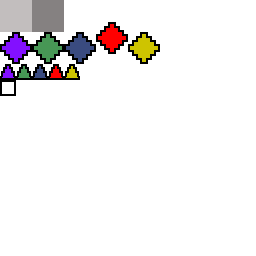
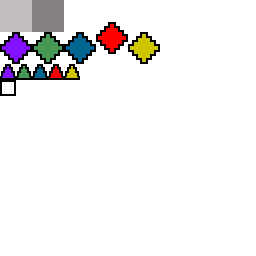
機能変更：ステーション表示を1つ、リンク解除。 機能変更に合わせてステージ修正

Changed region(s): [[0.25, 0.125, 0.375, 0.25], [0.125, 0.25, 0.1875, 0.3125]]

diff --git a/Solution/StageEditor/Editor.cpp b/Solution/StageEditor/Editor.cpp
@@ -26,18 +26,18 @@ void Editor::initialize( ) {
 	drawer->loadGraph( GRAPH_TIMER_NUM, "UI/timenumber.png" );
 	drawer->loadGraph( GRAPH_SELECT_MENU, "UI/UI_retry_select.png" );
 	Matrix station_size = Matrix::makeTransformScaling( Vector( WORLD_SCALE, WORLD_SCALE, WORLD_SCALE ) ); 
-	drawer->loadMDLModel( MDL_STATION_0, "Model/Station/station.mdl", "Model/Station/purple.jpg", station_size );
-	drawer->loadMDLModel( MDL_STATION_1, "Model/Station/station.mdl", "Model/Station/green.jpg", station_size );
-	drawer->loadMDLModel( MDL_STATION_2, "Model/Station/station.mdl", "Model/Station/blue.jpg", station_size );
-	drawer->loadMDLModel( MDL_STATION_3, "Model/Station/station.mdl", "Model/Station/red.jpg", station_size );
-	drawer->loadMDLModel( MDL_STATION_4, "Model/Station/station.mdl", "Model/Station/yellow.jpg", station_size );
+	drawer->loadMDLModel( MDL_STATION, "Model/Station/station.mdl", "Model/Station/purple.jpg", station_size );
+	//drawer->loadMDLModel( MDL_STATION_1, "Model/Station/station.mdl", "Model/Station/green.jpg", station_size );
+	//drawer->loadMDLModel( MDL_STATION_2, "Model/Station/station.mdl", "Model/Station/blue.jpg", station_size );
+	//drawer->loadMDLModel( MDL_STATION_3, "Model/Station/station.mdl", "Model/Station/red.jpg", station_size );
+	//drawer->loadMDLModel( MDL_STATION_4, "Model/Station/station.mdl", "Model/Station/yellow.jpg", station_size );
 
 	Matrix crystal_size = Matrix::makeTransformScaling( Vector( WORLD_SCALE / 2, WORLD_SCALE / 2, WORLD_SCALE / 2 ) ); 
-	drawer->loadMDLModel( MDL_CRYSTAL_0, "Model/Crystal/crystal.mdl", "Model/Crystal/purple.jpg", crystal_size );
-	drawer->loadMDLModel( MDL_CRYSTAL_1, "Model/Crystal/crystal.mdl", "Model/Crystal/green.jpg", crystal_size );
-	drawer->loadMDLModel( MDL_CRYSTAL_2, "Model/Crystal/crystal.mdl", "Model/Crystal/blue.jpg", crystal_size );
-	drawer->loadMDLModel( MDL_CRYSTAL_3, "Model/Crystal/crystal.mdl", "Model/Crystal/red.jpg", crystal_size );
-	drawer->loadMDLModel( MDL_CRYSTAL_4, "Model/Crystal/crystal.mdl", "Model/Crystal/yellow.jpg", crystal_size );
+	drawer->loadMDLModel( MDL_CRYSTAL, "Model/Crystal/crystal.mdl", "Model/Crystal/purple.jpg", crystal_size );
+	//drawer->loadMDLModel( MDL_CRYSTAL_1, "Model/Crystal/crystal.mdl", "Model/Crystal/green.jpg", crystal_size );
+	//drawer->loadMDLModel( MDL_CRYSTAL_2, "Model/Crystal/crystal.mdl", "Model/Crystal/blue.jpg", crystal_size );
+	//drawer->loadMDLModel( MDL_CRYSTAL_3, "Model/Crystal/crystal.mdl", "Model/Crystal/red.jpg", crystal_size );
+	//drawer->loadMDLModel( MDL_CRYSTAL_4, "Model/Crystal/crystal.mdl", "Model/Crystal/yellow.jpg", crystal_size );
 	
 	Matrix earth_size = Matrix::makeTransformScaling( Vector( WORLD_SCALE / STAGE_MODEL_SIZE * STAGE_WIDTH_NUM, WORLD_SCALE / STAGE_MODEL_SIZE * STAGE_HEIGHT_NUM, WORLD_SCALE / STAGE_MODEL_SIZE ) );
 	drawer->loadMDLModel( MDL_EARTH, "Model/Stage/earth.mdl", "Model/Stage/earth.jpg", earth_size );

diff --git a/Solution/Common/Stage.cpp b/Solution/Common/Stage.cpp
@@ -70,17 +70,6 @@ void Stage::loadWall( ) {
 		Vector( 0, 0 ),
 		Vector( -WORLD_SCALE / 8, -WORLD_SCALE / 2 )
 	};
-	Vector copy_pos[ 9 ] = {
-		Vector( 0, 0, 0 ),
-		Vector( STAGE_WIDTH_NUM * WORLD_SCALE, 0, 0 ),
-		Vector( STAGE_WIDTH_NUM * WORLD_SCALE, STAGE_HEIGHT_NUM * WORLD_SCALE, 0 ),
-		Vector( STAGE_WIDTH_NUM * WORLD_SCALE, -STAGE_HEIGHT_NUM * WORLD_SCALE, 0 ),
-		Vector( -STAGE_WIDTH_NUM * WORLD_SCALE, 0, 0 ),
-		Vector( -STAGE_WIDTH_NUM * WORLD_SCALE, STAGE_HEIGHT_NUM * WORLD_SCALE, 0 ),
-		Vector( -STAGE_WIDTH_NUM * WORLD_SCALE, -STAGE_HEIGHT_NUM * WORLD_SCALE, 0 ),
-		Vector( 0,  STAGE_HEIGHT_NUM * WORLD_SCALE, 0 ),
-		Vector( 0,  -STAGE_HEIGHT_NUM * WORLD_SCALE, 0 ),
-	};
 
 	for ( int i = 0; i < 16; i++ ) {
 		int tmp = 1;
@@ -104,20 +93,20 @@ void Stage::loadWall( ) {
 		}
 		unsigned char flag = 0;
 		for ( int j = 0; j < 4; j++ ) {
-			int tmp_x = x * 2 + j % 2;
-			int tmp_y = y * 2 + j / 2;
-			int map_idx = tmp_x % ( STAGE_WIDTH_NUM * 2 ) + tmp_y * STAGE_WIDTH_NUM * 2;
-			if ( x + OFFSET_X[ j ] < 0 ||
-				 x + OFFSET_X[ j ] >= STAGE_WIDTH_NUM ) {
-				continue;
-			}
-			if ( y + OFFSET_Y[ j ] < 0 ||
-				 y + OFFSET_Y[ j ] >= STAGE_HEIGHT_NUM ) {
-				continue;
-			}
-
 			int idx0 = i + OFFSET_X[ j ];
 			int idx1 = i + OFFSET_Y[ j ] * STAGE_WIDTH_NUM;
+			if ( x + OFFSET_X[ j ] < 0 ) {
+				idx0 += STAGE_WIDTH_NUM;
+			}
+			if ( x + OFFSET_X[ j ] >= STAGE_WIDTH_NUM ) {
+				idx0 -= STAGE_WIDTH_NUM;
+			}
+			if ( y + OFFSET_Y[ j ] < 0 ) {
+				idx1 += STAGE_WIDTH_NUM * STAGE_HEIGHT_NUM;
+			}
+			if ( y + OFFSET_Y[ j ] >= STAGE_HEIGHT_NUM ) {
+				idx1 -= STAGE_WIDTH_NUM * STAGE_HEIGHT_NUM;
+			}
 			if ( type == 1 ) {
 				if ( _data.wall[ idx0 ] == 0 && _data.wall[ idx1 ] == 0 ) {
 					flag |= 1 << j;

diff --git a/Solution/App/Viewer.cpp b/Solution/App/Viewer.cpp
@@ -1,11 +1,12 @@
 #include "Viewer.h"
 
 static const int VIEW_RANGE = 8;
-static const Vector OFFSET[ 4 ] = {
+static const Vector OFFSET[ 5 ] = {
 	Vector( -STAGE_WIDTH_NUM * WORLD_SCALE, 0, 0 ),
 	Vector( STAGE_WIDTH_NUM * WORLD_SCALE, 0, 0 ),
 	Vector( 0, -STAGE_HEIGHT_NUM * WORLD_SCALE, 0 ),
 	Vector( 0, STAGE_HEIGHT_NUM * WORLD_SCALE, 0 ),
+	Vector( )
 };
 
 Viewer::Viewer( ) {
@@ -15,7 +16,7 @@ Viewer::Viewer( ) {
 Viewer::~Viewer( ) {
 }
 
-void Viewer::drawModelMDL( Drawer::ModelMDL mdl ) {
+void Viewer::drawModelMDL( Drawer::ModelMDL mdl ) const {
 	DrawerPtr drawer = Drawer::getTask( );
 	drawer->setModelMDL( mdl );
 	char flag = getInViewFlag( mdl.pos );
@@ -32,7 +33,19 @@ void Viewer::drawModelMDL( Drawer::ModelMDL mdl ) {
 	}
 }
 
-char Viewer::getInViewFlag( Vector pos ) {
+void Viewer::drawModelMDLTransfer( Drawer::ModelMDL mdl ) const {
+	DrawerPtr drawer = Drawer::getTask( );
+	drawer->setModelMDL( mdl );
+	const int OFF_X[ 8 ] = { 4, 4, 0, 0, 0, 1, 1, 1 };
+	const int OFF_Y[ 8 ] = { 2, 3, 2, 4, 3, 2, 4, 3 };
+	for ( int i = 0; i < 8; i++ ) {
+		Drawer::ModelMDL model = mdl;
+		model.pos += OFFSET[ OFF_X[ i ] ] + OFFSET[ OFF_Y[ i ] ];
+		drawer->setModelMDL( model );
+	}
+}
+
+char Viewer::getInViewFlag( Vector pos ) const {
 	char flag = 0;
 	if ( pos.x > VIEW_RANGE * WORLD_SCALE ) {
 		flag |= 1;

diff --git a/Solution/App/AppStage.h b/Solution/App/AppStage.h
@@ -15,8 +15,9 @@ public:
 	Vector adjustCollisionToWall( Vector pos, Vector vec, const double radius );
 	Vector adjustCollisionToCrystal( Vector pos, Vector vec, const double radius );
 	CrystalPtr getHittingCrystal( Vector pos0, Vector pos1 ) const;
-	bool isOnStation( Vector pos, int type );
+	bool isOnStation( Vector pos );
 	int getStationNum( ) const;
+	int getStationCount( ) const;
 	std::list< CrystalPtr > getCrystalList( ) const;
 private:
 	void updateCrystal( );
@@ -27,9 +28,11 @@ private:
 	void drawCollisionLine( ) const;
 	void loadCrystal( );
 	void loadMapData( );
+	void loadPhase( );
 	void load( int stage_num );
 private:
 	std::list< CrystalPtr > _crystals;
 	std::array< char, STAGE_WIDTH_NUM * 2 * STAGE_HEIGHT_NUM * 2 > _map_data;
+	int _station_count;
 };
 

diff --git a/Solution/App/Crystal.cpp b/Solution/App/Crystal.cpp
@@ -29,8 +29,9 @@ void Crystal::draw( ) const {
 
 void Crystal::update( AppStagePtr stage ) {
 	_drop_down = false;
-	if ( stage->isOnStation( _pos, (int)( _type - MDL_CRYSTAL_0 ) + 1 ) ) {
+	if ( stage->isOnStation( _pos ) ) {
 		_finished = true;
+		return;
 	}
 
 	Vector adjust = stage->adjustCollisionToWall( _pos, _vec, CRYSTAL_RADIUS );
@@ -113,8 +114,4 @@ void Crystal::setVec( Vector vec ) {
 
 bool Crystal::isDropDown( ) const {
 	return _drop_down;
-}
-
-MDL Crystal::getType( ) const {
-	return _type;
 }

diff --git a/Solution/Common/define.h b/Solution/Common/define.h
@@ -13,17 +13,13 @@ enum MDL {
 	MDL_EARTH,
 	MDL_CURSOR,
 
-	MDL_CRYSTAL_0,
-	MDL_CRYSTAL_1,
-	MDL_CRYSTAL_2,
-	MDL_CRYSTAL_3,
-	MDL_CRYSTAL_4,
+	MDL_CRYSTAL,
+	//MDL_CRYSTAL_1,
+	//MDL_CRYSTAL_2,
+	//MDL_CRYSTAL_3,
+	//MDL_CRYSTAL_4,
 
-	MDL_STATION_0,
-	MDL_STATION_1,
-	MDL_STATION_2,
-	MDL_STATION_3,
-	MDL_STATION_4,
+	MDL_STATION,
 
 	MDL_WALL_0_0,
 	MDL_WALL_0_1,

diff --git a/Solution/App/Viewer.h b/Solution/App/Viewer.h
@@ -9,8 +9,9 @@ public:
 	Viewer( );
 	virtual ~Viewer( );
 public:
-	void drawModelMDL( Drawer::ModelMDL mdl );
+	void drawModelMDL( Drawer::ModelMDL mdl ) const;
+	void drawModelMDLTransfer( Drawer::ModelMDL mdl ) const;
 private:
-	char getInViewFlag( Vector pos );
+	char getInViewFlag( Vector pos ) const;
 };
 

diff --git a/Solution/Common/Stage.h b/Solution/Common/Stage.h
@@ -35,7 +35,7 @@ protected:
 	void load( int stage_num );
 	virtual void drawCrystal( ) const;
 	void loadWall( );
-	void loadPhase( );
+	virtual void loadPhase( );
 	virtual void loadCrystal( );
 	std::vector< Drawer::ModelMDL > getWalls( ) const;
 private:

diff --git a/Solution/App/Crystal.h b/Solution/App/Crystal.h
@@ -17,7 +17,6 @@ public:
 	Vector getPos( ) const;
 	void setVec( Vector vec );
 	bool isDropDown( ) const;
-	MDL getType( ) const;
 private:
 	Vector _pos;
 	Vector _vec;
